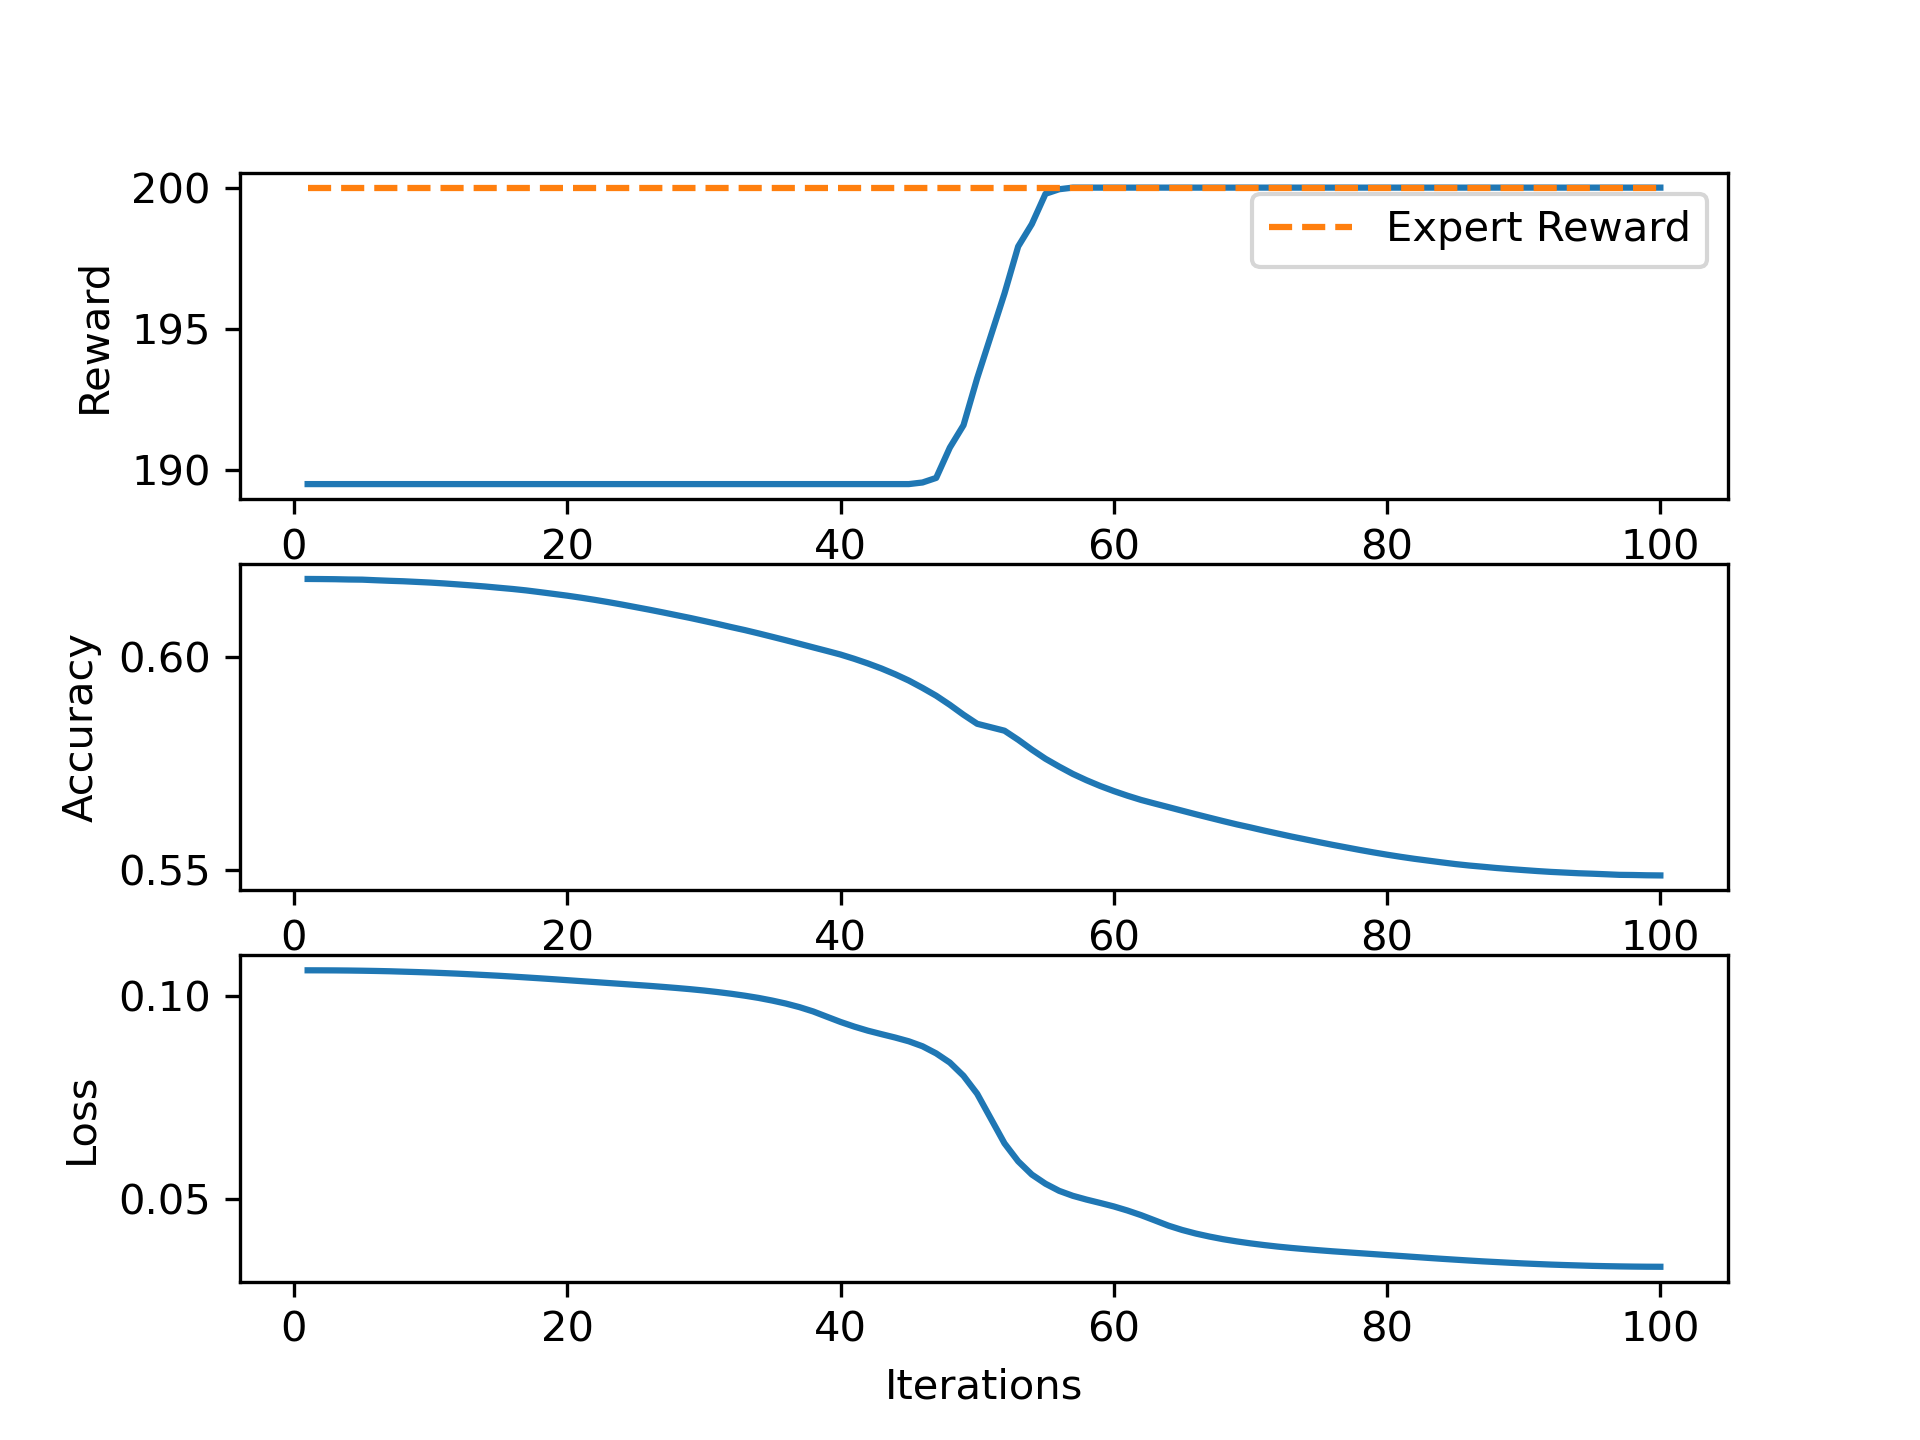
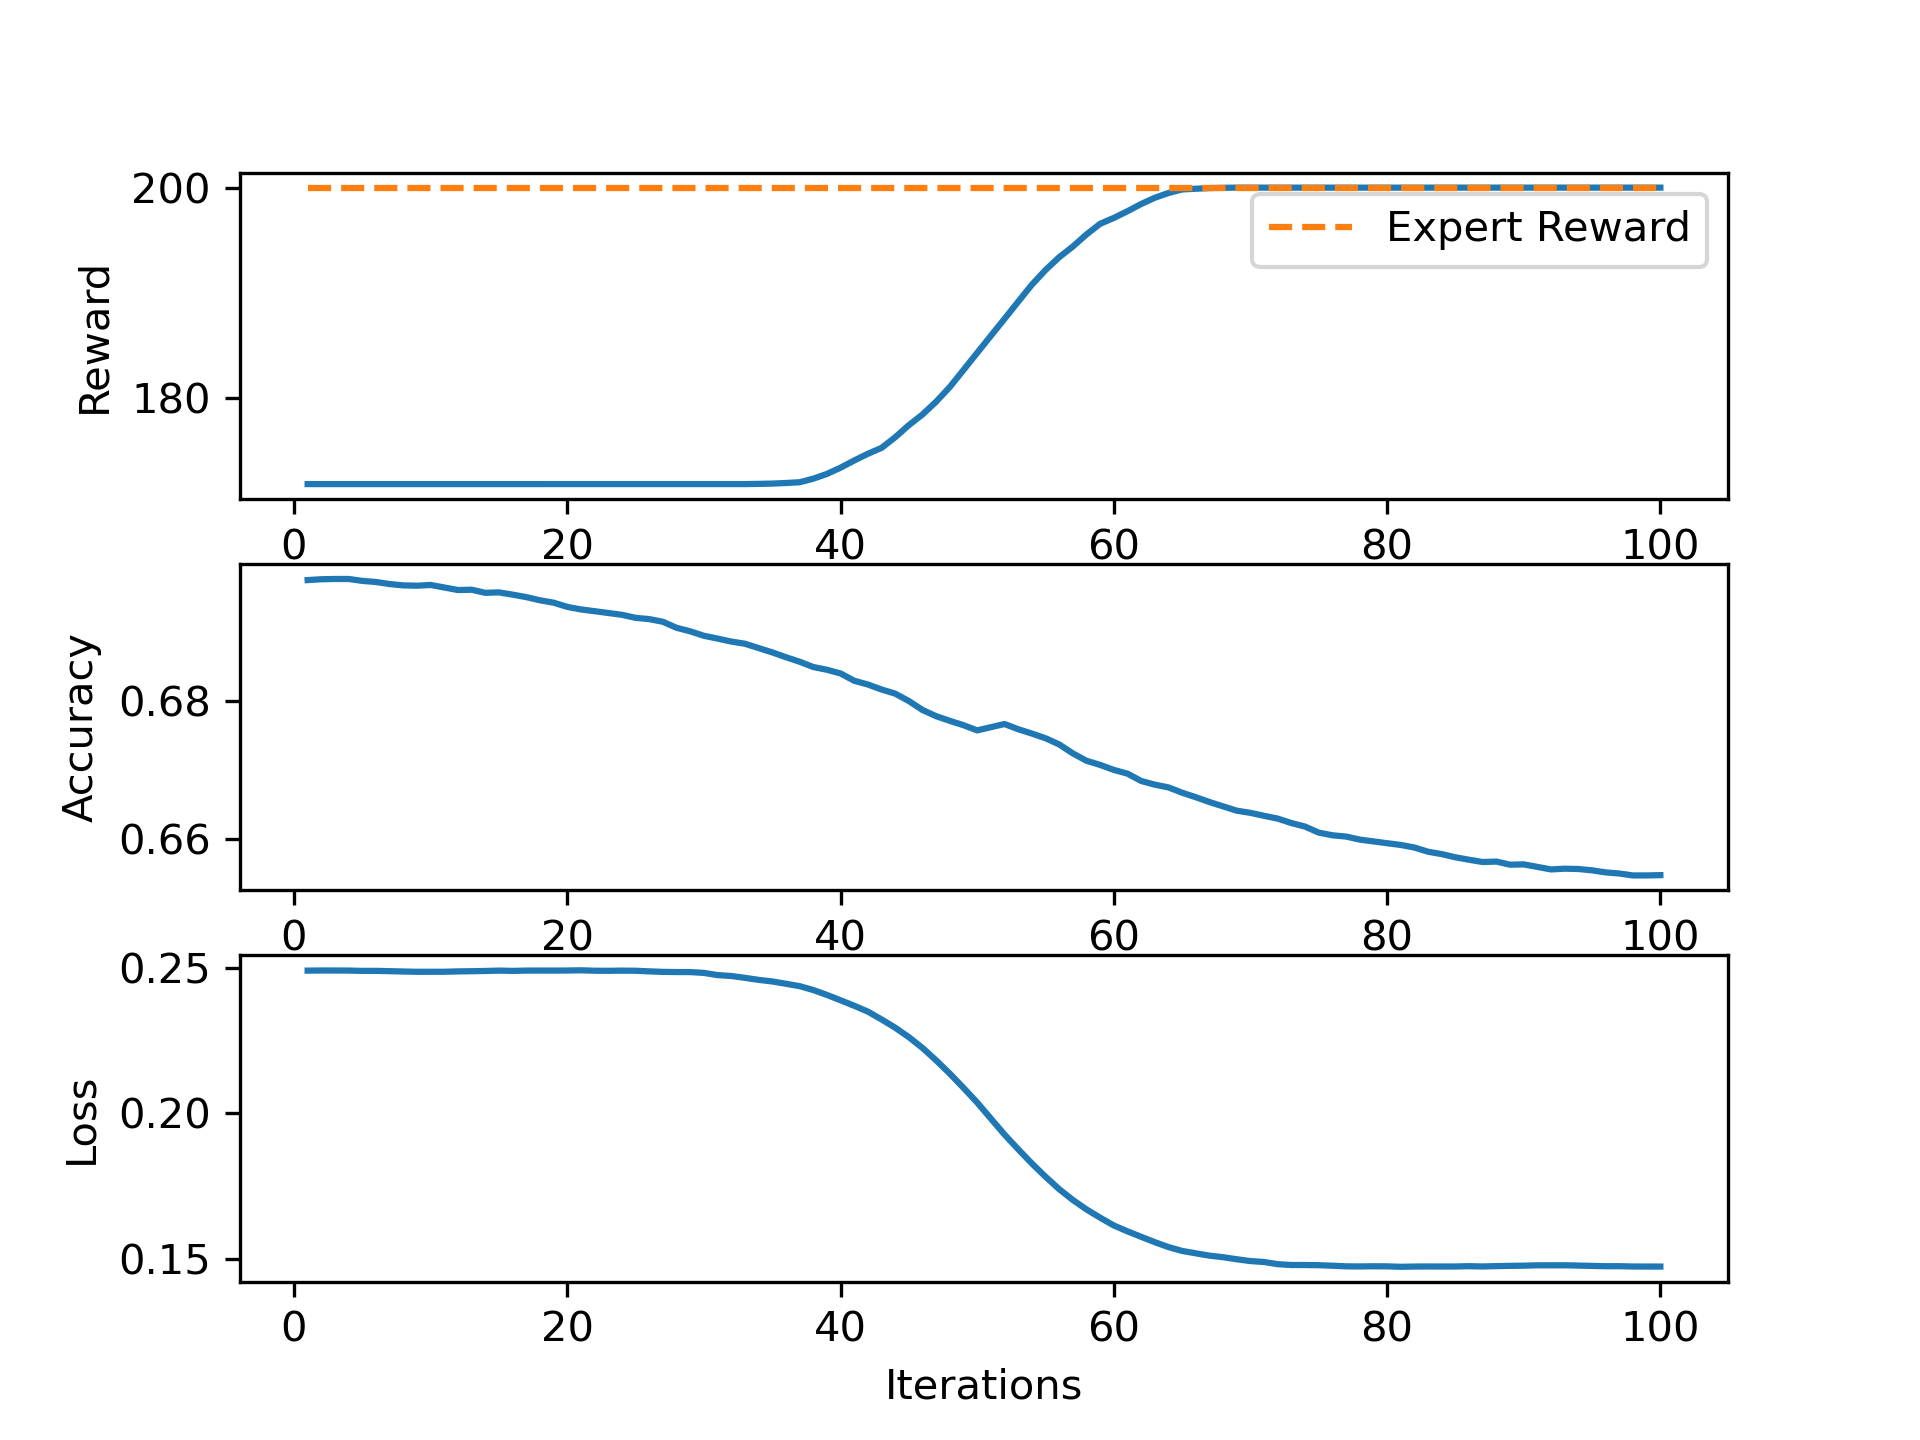
Final version DAGGER

diff --git a/p2-templates/utils.py b/p2-templates/utils.py
@@ -4,6 +4,23 @@ from torch.utils.data import Dataset
 def state_ndarray_to_tensor(state_array, batch):
     return torch.clone(torch.from_numpy(state_array).float()).repeat(batch).reshape((batch, state_array.shape[0]))
 
+def batch_idx(batch, sample_size):
+    
+    # Shuffle samples 
+    indices = torch.randperm(sample_size) 
+    new_batch = batch
+    
+    # If batch is greater than episode length repeat episode batch // num_episodes times
+    # And caculate new batch size since batch % sample != 0 sometimes
+    if batch > sample_size:
+        rep = batch // sample_size 
+        new_batch = rep * sample_size 
+        indices = indices.repeat(rep)
+
+    else:
+        indices = indices[:batch]
+
+    return new_batch, indices
 
 class Q2_Dataset(Dataset):
     def __init__(self, num_episodes, batch, D, nS, device):
@@ -22,25 +39,16 @@ class Q2_Dataset(Dataset):
         assert self.__len__ () > 0 and self.d < self.__len__()
         states, actions = self.D[self.d]
         
-        if self.batch > states.shape[1]:
-            rep = self.batch // states.shape[1]
-            batch = rep * states.shape[1]
-        else:
-            batch = self.batch
+        # Random permutation of episodes 
+        batch, indices = batch_idx(self.batch, self.num_episodes) 
+        
+        # (batch, shortest_episode, state.size ) 
+        O_s = torch.zeros((batch, states.shape[1], self.nS)).float().to(self.device)
+        # (batch, shortest_episode ) 
+        O_a = torch.zeros((batch, states.shape[1])).long().to(self.device)
 
-        O_s = torch.zeros((self.num_episodes, batch, self.nS)).float().to(self.device)
-        O_a = torch.zeros((self.num_episodes, batch)).long().to(self.device)
-
-        for episode in range(self.num_episodes):
-            # Sample episodes in random order 
-            indices = torch.randperm(states.shape[1])[:self.batch]
-
-            if self.batch > states.shape[1]:
-                indices = indices.repeat(rep)
-
-            assert(O_s[episode].shape == states[episode, indices].shape)
-            O_s[episode] = states[episode, indices]
-            O_a[episode] = actions[episode, indices]
+        O_s = states[indices]
+        O_a = actions[indices] 
 
         self.d += 1
         return O_s, O_a 

diff --git a/p2-templates/imitation.py b/p2-templates/imitation.py
@@ -2,7 +2,7 @@ import numpy as np
 import torch
 from torch.utils.data import DataLoader
 from model_pytorch import make_model, ExpertModel
-from utils import state_ndarray_to_tensor, Q2_Dataset 
+from utils import state_ndarray_to_tensor, Q2_Dataset, batch_idx
 
 
 def action_to_one_hot(action, batch):
@@ -58,7 +58,7 @@ def generate_episode(env, policy, device):
 
 class Imitation():
     
-    def __init__(self, env, num_episodes, expert_file, device, mode, batch = 64, expert_T = 200):
+    def __init__(self, env, num_episodes, expert_file, device, mode, batch = 64, expert_T = 200, minibatch = 8):
         self.env = env
         
         # Pytorch Only #
@@ -68,6 +68,7 @@ class Imitation():
         self.expert_T = expert_T
         self.mode = mode
         self.batch = batch
+        self.minibatch = minibatch
         
         self.num_episodes = num_episodes
         
@@ -89,11 +90,14 @@ class Imitation():
 
         start = 0
         for e in range(self.num_episodes):
+
             if e > 0:
                 start = start + episode_lens[e-1] 
 
             end = start + shortest_episode 
+
             assert end - start == shortest_episode
+
             O_s[e, :] = torch.cat(train_states[ start : end ] , 1).reshape(shortest_episode, self.nS)
             O_a[e, :] = torch.cat(train_actions[ start : end ], 0)
 
@@ -136,10 +140,10 @@ class Imitation():
 
     def step(self, state_batch, action_batch):
 
-        # Shuffle steps of trajectory 
-        indices = torch.randperm(state_batch.shape[0])[:self.batch]
+        minibatch, indices = batch_idx(self.minibatch, state_batch.shape[0]) 
+
         y_hat = self.model(state_batch[indices])
-        loss = self.criterion(y_hat.squeeze(0), action_batch[indices].squeeze(0))
+        loss = self.criterion(y_hat.squeeze(0), action_batch[indices].long().squeeze(0))
         
         # Backward prop.
         self.optimizer.zero_grad()
@@ -150,7 +154,7 @@ class Imitation():
 
         # Add to loss, acc 
         self.total_loss += loss
-        self.acc_total += float(torch.sum(action_batch == y_hat.argmax(dim=1)) / action_batch.shape[0])
+        self.acc_total += float(torch.sum(action_batch[indices].long() == y_hat.argmax(dim=1)) / minibatch)
         self.training_iters += 1
 
 

diff --git a/p2-templates/playground.py b/p2-templates/playground.py
@@ -10,10 +10,10 @@ import numpy as np
 import torch
 import BCDAGGER
 import utils
-num_episodes = 10 
+num_episodes = 15 
 expert_file = 'expert_torch.pt'
 device = 'cpu'
-batch = 2   
+batch = 8   
 nS = 4
 nA = 2
 env = gym.make('CartPole-v0')
@@ -25,8 +25,9 @@ reload(utils)
 reload(BCDAGGER)
 reload(imitation)
 reload(model_pytorch)
-im = imitation.Imitation(env, num_episodes, expert_file, device, mode, batch)
-keys = [10]
+minibatch = 2
+im = imitation.Imitation(env, num_episodes, expert_file, device, mode, batch, 200, minibatch)
+keys = [num_episodes]
 num_seeds = 1
 
 # %%
@@ -43,7 +44,7 @@ for i in range(num_iterations):
     loss_vec[i] = loss
     acc_vec[i] = acc
     imitation_reward_vec[i] = im.evaluate(im.model)
-    print(acc)
+    print(loss)
 
 # %%
 train_set = utils.Q2_Dataset(num_episodes, batch, D, nS, device) 
